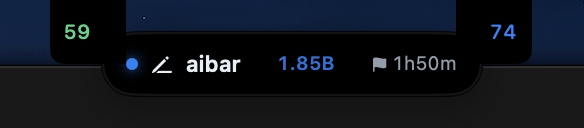
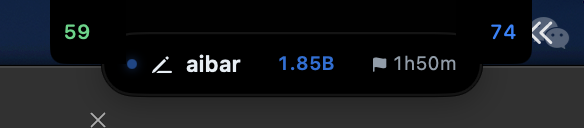
docs: refresh notch capsule camera bridge

diff --git a/design-qa.md b/design-qa.md
@@ -1,0 +1,43 @@
+**Comparison Target**
+
+- Source visual truth: `/var/folders/5f/x8ffcnvn2_14lh035c3p92180000gn/T/codex-clipboard-cdfe58f7-70b9-47da-ae3d-c897e58c9b46.png`
+- Rendered implementation: `/Users/queen/Documents/aibar/docs/images/notch-capsule.png`
+- Combined comparison evidence: `/tmp/aibar-notch-bridge-comparison.png` (source left, implementation right)
+- Viewport: 292 x 64 pt at 2x display density
+- Pixels: source 584 x 128; implementation 584 x 128; no density normalization required
+- State: macOS physical-notch display, aibar demo quota wings and activity capsule visible
+
+**Findings**
+
+- No actionable P0, P1, or P2 differences remain for the requested change.
+- Fonts and typography: quota numbers, project label, token count, and duration retain the existing size, weight, antialiasing, hierarchy, and truncation behavior.
+- Spacing and layout rhythm: the left/right quota wings and activity capsule preserve their original geometry. The new black camera bridge is limited to the 22 pt system menu-bar thickness instead of the full 32 pt safe area.
+- Colors and visual tokens: the bridge is pure black and visually joins the physical camera region. Existing blue, green, white, and gray status colors are unchanged.
+- Image quality and asset fidelity: both captures are native 2x screenshots with matching crops and no resampling. No raster or icon asset was replaced.
+- Copy and content: visible app copy is unchanged.
+
+The item partially visible at the far-right crop edge and the window background below the menu bar belong to the surrounding macOS capture environment, not the aibar component.
+
+**Focused Region Comparison**
+
+The top 22 pt menu-bar band was inspected at native density. The implementation replaces only the former blue center gap with black; below that band, the capsule keeps its original independent rounded geometry. No additional focused crop was needed because all changed pixels are clearly readable in the full 584 x 128 evidence.
+
+**Comparison History**
+
+1. Earlier implementation used the full 32 pt safe-area height. It made the center fill visually too tall.
+2. The bridge height was changed to `min(screen.safeAreaInsets.top, NSStatusBar.system.thickness)`, which resolves to 22 pt on the test Mac.
+3. The bridge panel was placed one window level below status-bar content and configured to ignore mouse events. The post-fix implementation screenshot confirms the thinner black band stays behind the quota wings and activity capsule.
+
+**Implementation Checklist**
+
+- [x] Use system menu-bar thickness for the camera bridge.
+- [x] Keep the bridge below all interactive notch content.
+- [x] Preserve existing left/right quota and capsule dimensions.
+- [x] Avoid a synthetic bridge on displays without a physical notch.
+- [x] Verify the final 2x rendered screenshot and automated tests.
+
+**Follow-up Polish**
+
+- None required for this change.
+
+final result: passed
